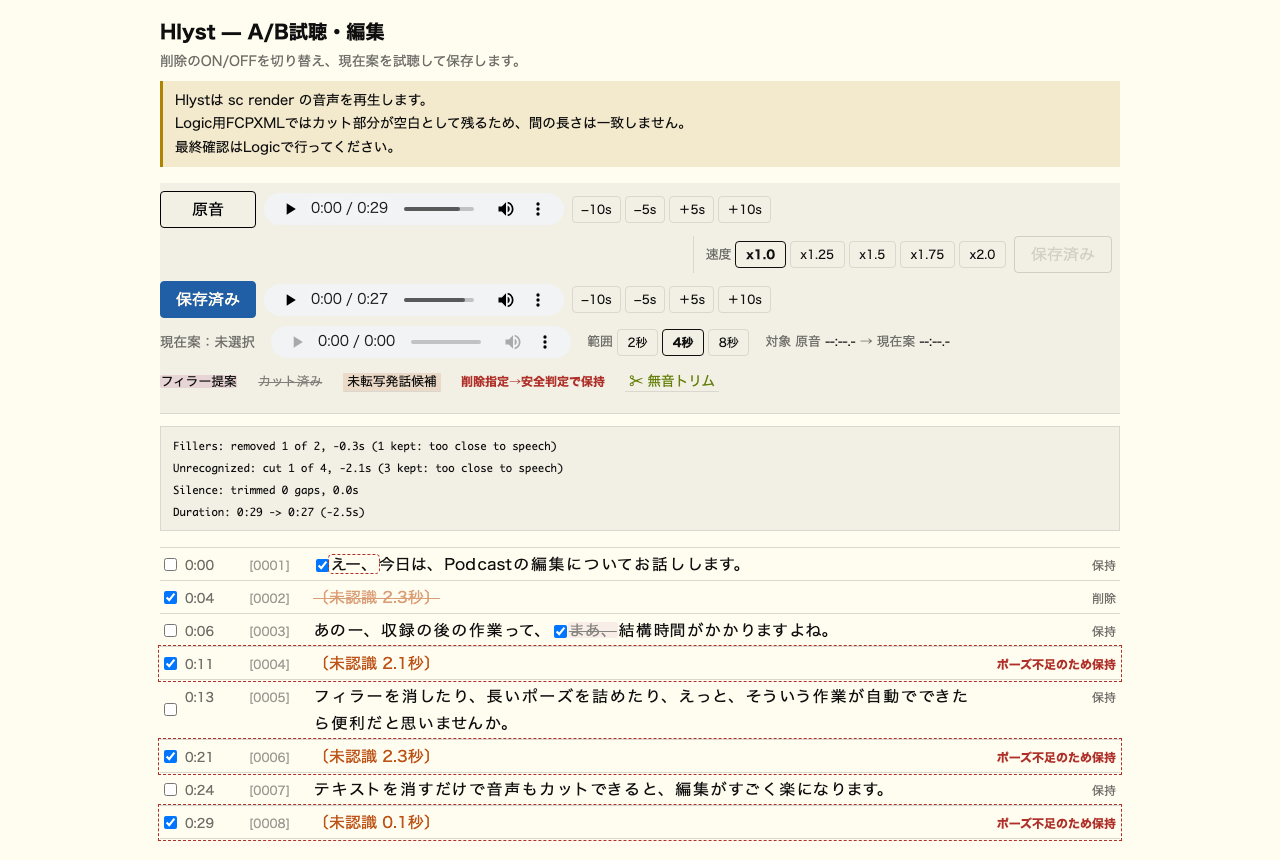
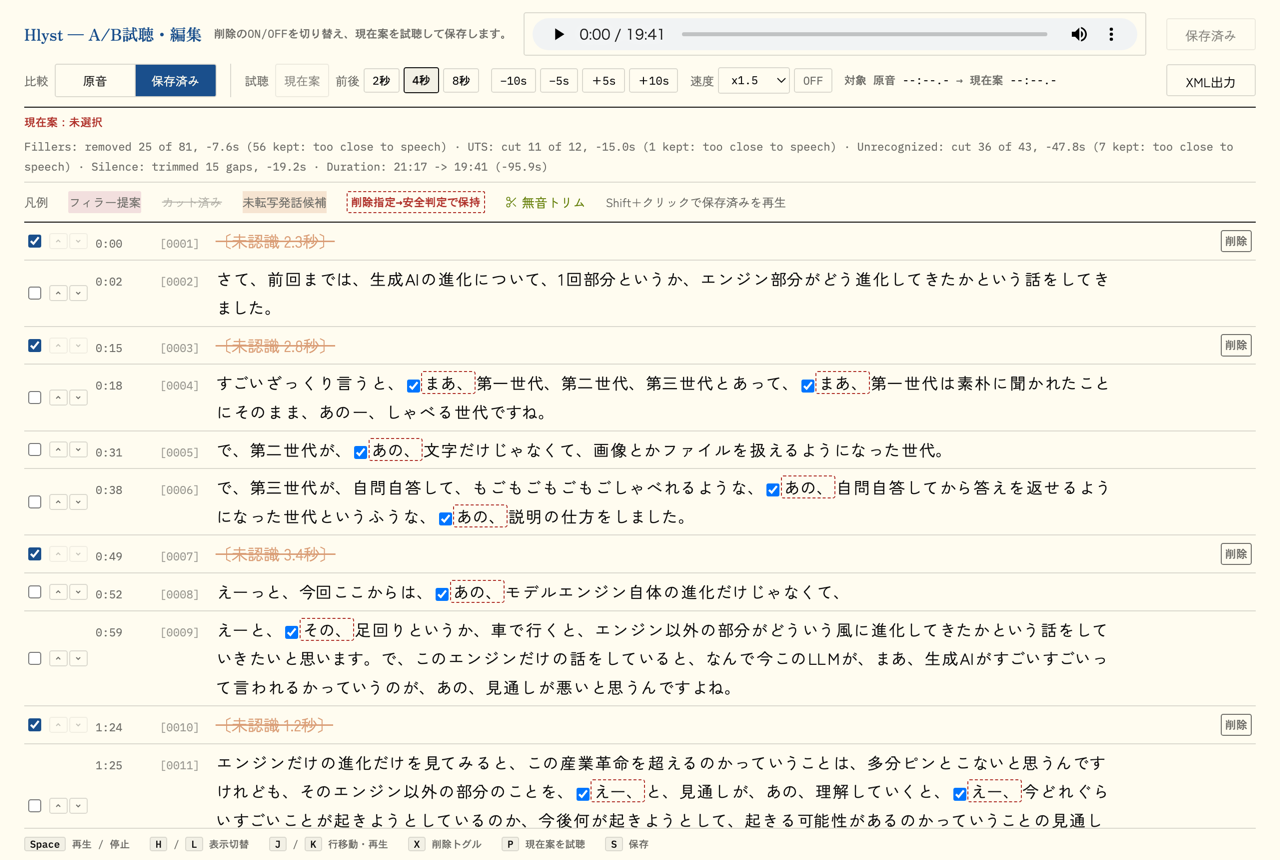
docs: Hlyst 全幅ワークスペース改訂を README/llms.txt に反映

diff --git a/README.md b/README.md
@@ -27,9 +27,9 @@ A local, free, privacy-first alternative to [Descript](https://www.descript.com/
 > **Requires Apple Silicon Mac** (M1/M2/M3/M4). Intel Macs are not supported. See [FAQ](#can-i-use-stefnceorf-on-windows-or-linux) for cross-platform options.
 
 <p align="center">
-  <img src="assets/hlyst-screenshot.png" alt="Hlyst — browser page for A/B listening and editing: original, saved edit, and current-plan players; per-cut checkboxes; safety-kept cuts highlighted" width="760">
+  <img src="assets/hlyst-screenshot.png" alt="Hlyst — full-width browser workspace with a single transport, original/saved mode switch, per-cut checkboxes, one-line stats bar, and keyboard hints" width="760">
 </p>
-<p align="center"><em>Hlyst (<code>sc review --serve</code>) — toggle each cut with a checkbox, A/B the real render instantly, save back to the transcript.</em></p>
+<p align="center"><em>Hlyst (<code>sc review --serve</code>) — keyboard-driven A/B editing (Space/J/K/H/L/X/P/S) with in-browser FCPXML export, no need to leave the browser.</em></p>
 
 ## Quick Start
 
@@ -64,7 +64,7 @@ sc logic episode.sc.txt         # generates episode.logic.fcpxml for Logic Pro
 - **Verbatim mode** — Transcribes filler words and hesitations that Whisper normally absorbs, enabling accurate filler detection. Enabled by default. Since v0.3.0 it uses the fast `turbo` model with a per-chunk filler prompt — in A/B tests across three episodes it captured more fillers than the previous `large-v3` approach while running twice as fast.
 - **Hallucination detection & rescue** — Automatically detects Whisper hallucinations, rescues the affected audio by re-transcribing with safe settings.
 - **Untranscribed speech detection & guarded cuts** — Short vocalizations (100–150 ms "uh"s, breaths, backchannels) that Whisper skips are detected and marked for deletion by default as `〔未認識 N.N秒〕` lines in the transcript. A marked span is only actually cut when a 0.25-second pause can be preserved from detected silence around it — otherwise the audio is kept for safety. Remove the brackets to keep a span, or pass `--no-auto-uts` for detection-only behavior (audio always preserved).
-- **Hlyst — browser A/B listening & editing** — `sc review episode.sc.txt` renders the edited audio for real and generates a browser page (named Hlyst, Old English for "listening") for original-vs-edited A/B comparison. With `--serve`, Hlyst becomes interactive: toggle each cut with a checkbox, preview the current plan instantly, and save back to `.sc.txt`. Use `--no-open` to skip auto-opening the browser.
+- **Hlyst — browser A/B listening & editing** — `sc review episode.sc.txt` renders the edited audio for real and generates a full-width browser workspace (named Hlyst, Old English for "listening") built around a single transport with an original/saved mode switch and a one-line stats bar. Every action has a keyboard shortcut (Space to play, J/K to move between lines, H/L to switch mode). With `--serve`, Hlyst becomes interactive: toggle each cut with a checkbox (X), reorder lines (▲▼), preview the current plan (P), save back to `.sc.txt` (S), and export FCPXML directly from the browser. Use `--no-open` to skip auto-opening the browser.
 - **Quality preservation** — WAV render output matches original sample rate and bit depth. Equal-power crossfade at cut boundaries prevents click noise.
 - **Japanese & English** — Full support for both languages with language-specific filler dictionaries.
 - **Text-based editing** — For finer control, edit the generated transcript in any text editor. Delete text to delete audio, rearrange lines to reorder segments — and the edited audio comes out sounding natural, because cuts snap to pause boundaries and silence troughs with crossfades. Since v0.3.0 the transcript also reads cleanly (turbo's natural orthography). See [Text-Based Editing](#text-based-editing-optional).
@@ -79,7 +79,7 @@ sc logic episode.sc.txt         # generates episode.logic.fcpxml for Logic Pro
 | **Privacy** | Audio never leaves your machine | Audio uploaded to servers | Local processing | Local processing |
 | **Japanese support** | Native (transcription + filler detection) | Limited | None | None |
 | **Filler removal** | Automatic (auto) / semi-automatic (step-by-step) | Automatic | Manual | Manual |
-| **Edit preview** | Browser A/B page + interactive editor (`sc review --serve`) | In-app playback | In-app playback | In-app playback |
+| **Edit preview** | Browser A/B workspace with keyboard editing (`sc review --serve`) | In-app playback | In-app playback | In-app playback |
 | **Logic Pro integration** | FCPXML export with click-free edge snapping | No | No | No |
 | **AI agent customization** | Yes — CLAUDE.md, AGENTS.md, test suite | No | No | No |
 | **Interface** | CLI | GUI application | GUI application | GUI application |
@@ -107,7 +107,7 @@ The repository includes:
 - **`CLAUDE.md`** — Project context and conventions for Claude Code
 - **`AGENTS.md`** — Workflow instructions for AI coding agents
 - **Comprehensive test suite** — Unit tests, CLI tests, and acceptance tests
-- **Clean Python codebase** — ~7,000 lines across 7 modules, well-structured for AI modification
+- **Clean Python codebase** — ~8,000 lines across 8 modules, well-structured for AI modification
 
 Example prompts for your AI agent:
 
@@ -229,11 +229,13 @@ Produces `input.edited.wav` (or the path given by `-o`). Cuts are made from the 
 sc review input.sc.txt [--serve] [--port N] [--no-open] [--gap-threshold 1.2] [--gap-max 0.7]
 ```
 
-Generates `input.review.wav` (a real render of the current `.sc.txt`) and `input.review.html` — the Hlyst page (Old English *hlyst* "listening") — then opens it in your browser (`--no-open` to suppress). The page shows the timestamped transcript with deleted lines struck through and fillers, untranscribed-speech candidates, and silence trims highlighted — click a line or word to play a few seconds around it, comparing original and edited audio at adjustable playback speed (x1.0–x2.0). Cuts that were requested but kept by the safety guard (not enough surrounding pause) are highlighted as such.
+Generates `input.review.wav` (a real render of the current `.sc.txt`) and `input.review.html` — the Hlyst page (Old English *hlyst* "listening") — then opens it in your browser (`--no-open` to suppress).
 
-Without `--serve`, the page is read-only: to change a decision, edit `.sc.txt` and run `sc review` again.
+Hlyst is a full-width workspace built around a single transport with a mode switch, rather than separate stacked players. A "Compare" group switches between original and saved audio; clicking a line or word plays a window around it (±2/4/8 s), with skip buttons (−10s/−5s/+5s/+10s) and a speed control (x1.25–x2.0, with an ON/OFF toggle — OFF plays at normal speed). A one-line stats bar under the header summarizes filler removals, untranscribed-speech cuts, unrecognized cuts, silence trims, and the overall duration change; per-line badges only appear for exceptions (deletion, manual edit, safety-kept). Cuts that were requested but kept by the safety guard (not enough surrounding pause) are highlighted as such. Shift-click a line or word to play the saved edit from that comparison position instead of the current-plan preview.
 
-With `--serve`, Hlyst becomes an interactive editor backed by a local server (127.0.0.1 only; `--port` defaults to an automatically chosen free port). Toggle each deletion with a checkbox, preview the resulting current plan instantly around the change (±2/4/8 s window), then save: only the affected lines in `.sc.txt` are patched (a `.bak` backup is created) and `review.wav` is re-rendered. Press Ctrl-C to stop the server.
+Without `--serve`, the page is read-only. Keyboard shortcuts are Space (play/stop the visible player), H/L (switch mode), and J/K (move between lines and play). To change a decision, edit `.sc.txt` and run `sc review` again.
+
+With `--serve`, Hlyst becomes an interactive editor backed by a local server (127.0.0.1 only; `--port` defaults to an automatically chosen free port). A second "Preview" mode group appears for the current plan (an unsaved-edit preview, disabled until first played). Additional keyboard shortcuts: X toggles deletion on the current line, P previews the current plan, and S saves. Each row has ▲▼ buttons to reorder lines directly in the browser; the new order is written back as the line order in `.sc.txt` on save. The save button patches only the affected lines in `.sc.txt` (a `.bak` backup is created) and re-renders `review.wav`; its notice appears next to the button and clears automatically after 5 seconds. An XML export button (also `--serve`-only) saves any unsaved changes, re-renders if needed, and writes `{base}.logic.fcpxml` directly from the browser — no need to run `sc logic` separately; its success notice also clears after 5 seconds, while errors stay visible. Press Ctrl-C to stop the server.
 
 Note the A/B reflects `sc render` output exactly; the Logic Pro FCPXML keeps deletions as timeline gaps, so playback in Logic differs — do the final check in Logic.
 
@@ -282,7 +284,7 @@ No. The default `sc episode.wav` workflow handles everything automatically — f
 
 ### Can I preview my edits before rendering or sending to Logic Pro?
 
-Yes. Run `sc review episode.sc.txt` to open Hlyst, a browser page for A/B listening — original audio versus a real render of your current edits. Click any transcript line or highlighted filler to hear a few seconds around it. With `--serve`, Hlyst becomes interactive: toggle each cut with a checkbox, preview instantly, and save the decisions back to `.sc.txt` without leaving the browser.
+Yes. Run `sc review episode.sc.txt` to open Hlyst, a full-width browser workspace for A/B listening — original audio versus a real render of your current edits, with a single transport and keyboard shortcuts (Space/H/L/J/K). With `--serve`, Hlyst becomes interactive: toggle each cut (X), preview the current plan (P), save the decisions back to `.sc.txt` (S), and export FCPXML directly — saving and rendering to Logic Pro both complete without leaving the browser.
 
 ### Does Stefnceorf delete sounds that Whisper didn't transcribe?
 
@@ -298,7 +300,7 @@ Input must be WAV. Apply noise reduction beforehand (e.g., with Audacity). Stefn
 
 ### Can AI coding agents modify this codebase?
 
-Yes. The repository includes `CLAUDE.md` and `AGENTS.md` with project context and workflow instructions. The codebase is intentionally simple (~7,000 lines of Python) with comprehensive tests, making it well-suited for AI-assisted modification.
+Yes. The repository includes `CLAUDE.md` and `AGENTS.md` with project context and workflow instructions. The codebase is intentionally simple (~8,000 lines of Python) with comprehensive tests, making it well-suited for AI-assisted modification.
 
 ## Accuracy & Limitations
 
